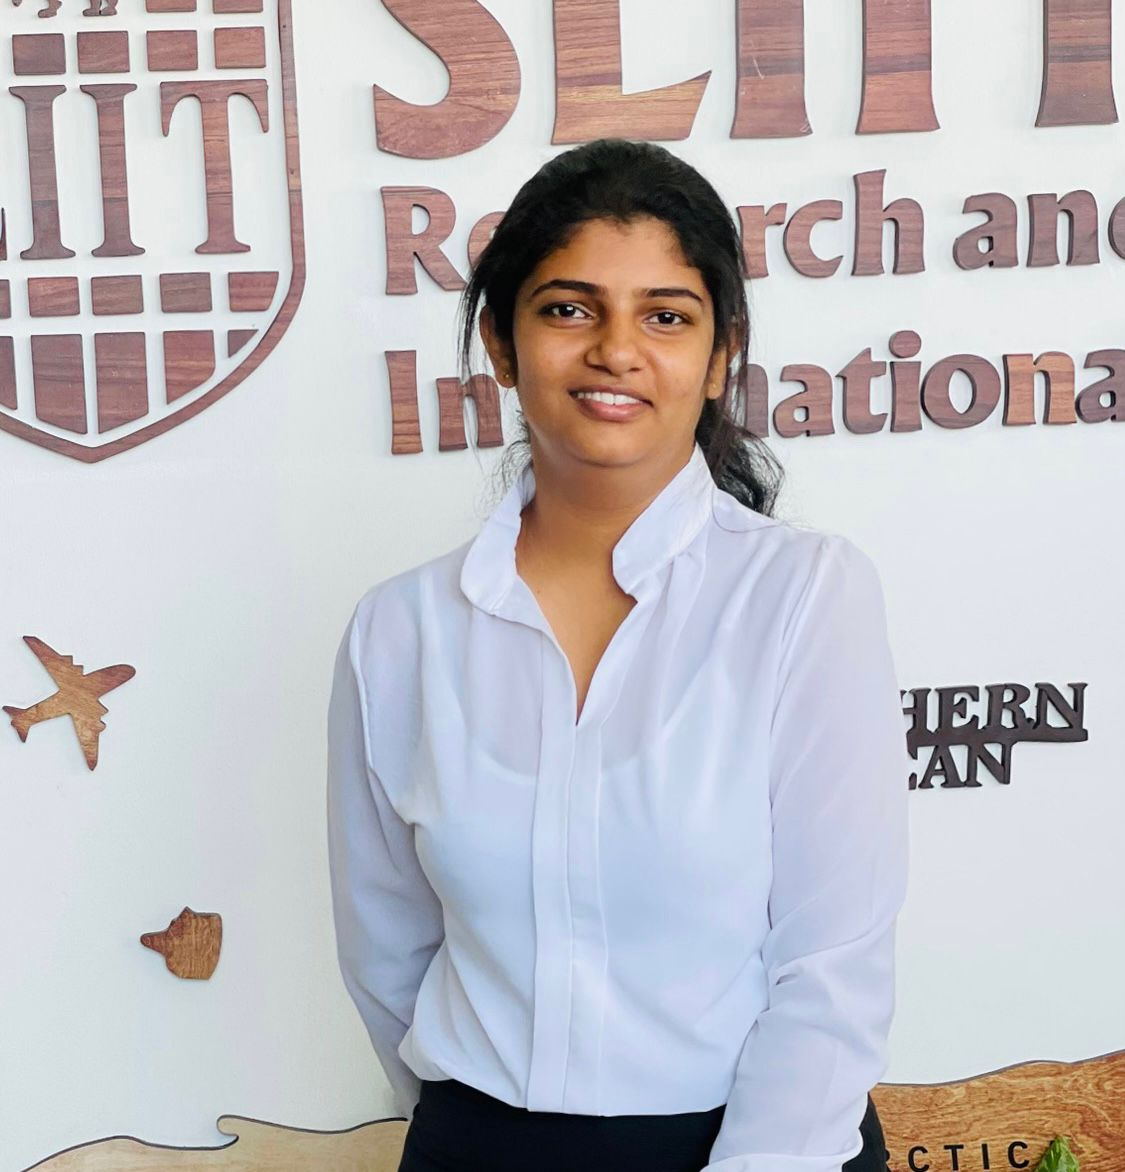
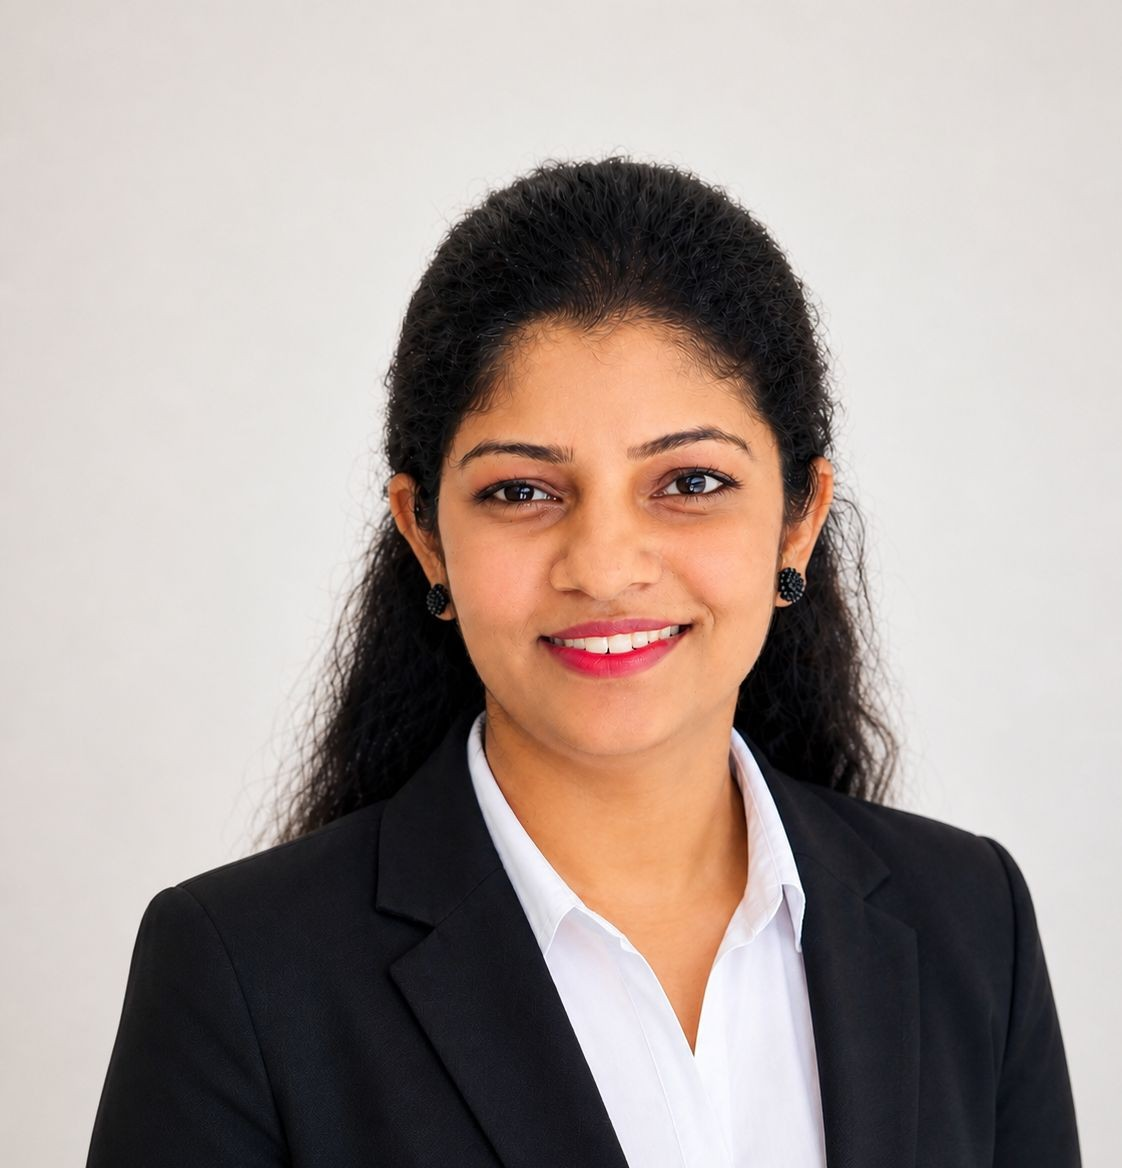
update documents and 1 profile

diff --git a/presentations.html b/presentations.html
@@ -423,11 +423,11 @@
           <div class="pres-stat-label">Total Decks</div>
         </div>
         <div class="pres-stat">
-          <div class="pres-stat-number">3</div>
+          <div class="pres-stat-number">4</div>
           <div class="pres-stat-label">Completed</div>
         </div>
         <div class="pres-stat">
-          <div class="pres-stat-number">31.2 MB</div>
+          <div class="pres-stat-number">31.3 MB</div>
           <div class="pres-stat-label">Total Size</div>
         </div>
         <div class="pres-stat">
@@ -462,7 +462,7 @@
           <div class="ptl-date">Mar 2026</div>
         </div>
         <div class="ptl-step">
-          <div class="ptl-dot upcoming">4</div>
+          <div class="ptl-dot done">✓</div>
           <div class="ptl-label">Final Defense</div>
           <div class="ptl-date">May 2026</div>
         </div>
@@ -501,7 +501,7 @@
             <div class="pres-meta">
               <span class="pres-meta-chip">📅 September 2025</span>
               <span class="pres-meta-chip">👥 Group</span>
-              <span class="pres-meta-chip">💾 4.5 MB</span>
+              <span class="pres-meta-chip">💾 10.3 MB</span>
               <span class="pres-meta-chip">📊 PPTX</span>
             </div>
             <a href="assets/presentations/proposal-presentation.pptx" class="pres-download-btn" download>
@@ -525,10 +525,10 @@
             <div class="pres-meta">
               <span class="pres-meta-chip">📅 December 2025</span>
               <span class="pres-meta-chip">👥 Group</span>
-              <span class="pres-meta-chip">💾 6.2 MB</span>
+              <span class="pres-meta-chip">💾 7.6 MB</span>
               <span class="pres-meta-chip">📊 PPTX</span>
             </div>
-            <a href="assets/presentations/pp1.pptx" class="pres-download-btn" download>
+            <a href="assets/presentations/PP1_presentation.pptx" class="pres-download-btn" download>
               📥 Download Slides
             </a>
           </div>
@@ -549,10 +549,10 @@
             <div class="pres-meta">
               <span class="pres-meta-chip">📅 March 2026</span>
               <span class="pres-meta-chip">👥 Group</span>
-              <span class="pres-meta-chip">💾 8.1 MB</span>
+              <span class="pres-meta-chip">💾 4.6 MB</span>
               <span class="pres-meta-chip">📊 PPTX</span>
             </div>
-            <a href="assets/presentations/pp2.pptx" class="pres-download-btn" download>
+            <a href="assets/presentations/PP2_presentation.pptx" class="pres-download-btn" download>
               📥 Download Slides
             </a>
           </div>
@@ -564,7 +564,7 @@
             <div class="pres-thumb-overlay" style="background: linear-gradient(135deg, rgba(92,53,168,0.3), rgba(0,151,167,0.2));"></div>
             <div class="pres-thumb-icon">🎯</div>
             <span class="pres-thumb-date">May 2026</span>
-            <span class="pres-thumb-status status-prep">🔄 In Preparation</span>
+            <span class="pres-thumb-status status-done">✓ Completed</span>
           </div>
           <div class="pres-body">
             <div class="pres-milestone-tag">🏆 Milestone 4 — Final Defense</div>
@@ -573,12 +573,12 @@
             <div class="pres-meta">
               <span class="pres-meta-chip">📅 May 2026</span>
               <span class="pres-meta-chip">👥 Group</span>
-              <span class="pres-meta-chip">💾 12.4 MB</span>
+              <span class="pres-meta-chip">💾 8.9 MB</span>
               <span class="pres-meta-chip">📊 PPTX</span>
             </div>
-            <span class="pres-download-btn disabled">
-              🔒 Coming Soon
-            </span>
+            <a href="assets/presentations/final-presentation.pptx" class="pres-download-btn" download>
+              📥 Download Slides
+            </a>
           </div>
         </div>
 
@@ -644,8 +644,8 @@
   <script>
     const slideFiles = [
       { name: 'Proposal-Presentation.pptx',  url: 'assets/presentations/proposal-presentation.pptx' },
-      { name: 'Progress-Presentation-1.pptx', url: 'assets/presentations/pp1.pptx' },
-      { name: 'Progress-Presentation-2.pptx', url: 'assets/presentations/pp2.pptx' },
+      { name: 'Progress-Presentation-1.pptx', url: 'assets/presentations/PP1_presentation.pptx' },
+      { name: 'Progress-Presentation-2.pptx', url: 'assets/presentations/PP2_presentation.pptx' },
       { name: 'Final-Presentation.pptx',      url: 'assets/presentations/final-presentation.pptx' }
     ];
 

diff --git a/documents.html b/documents.html
@@ -422,11 +422,11 @@
           <div class="docs-stat-label">Total Documents</div>
         </div>
         <div class="docs-stat">
-          <div class="docs-stat-number">3</div>
+          <div class="docs-stat-number">4</div>
           <div class="docs-stat-label">Completed</div>
         </div>
         <div class="docs-stat">
-          <div class="docs-stat-number">12.5 MB</div>
+          <div class="docs-stat-number">13.9 MB</div>
           <div class="docs-stat-label">Total Size</div>
         </div>
         <div class="docs-stat">
@@ -508,7 +508,7 @@
             <div class="docs-meta">
               <span class="docs-meta-chip">📅 September 2025</span>
               <span class="docs-meta-chip">👥 Group</span>
-              <span class="docs-meta-chip">💾 1.2 MB</span>
+              <span class="docs-meta-chip">💾 11.6 MB</span>
               <span class="docs-meta-chip">📑 PDF</span>
             </div>
             <a href="assets/documents/topic-assessment.pdf" class="docs-download-btn" download>
@@ -531,8 +531,8 @@
             <p class="docs-card-desc">Comprehensive project proposal outlining research objectives, proposed deep learning methodology, YOLOv8 architecture selection, expected outcomes, and the project timeline for each individual component.</p>
             <div class="docs-meta">
               <span class="docs-meta-chip">📅 September 2025</span>
-              <span class="docs-meta-chip">👤 Individual</span>
-              <span class="docs-meta-chip">💾 2.4 MB</span>
+              <span class="docs-meta-chip">👥 Group</span>
+              <span class="docs-meta-chip">💾 436 KB</span>
               <span class="docs-meta-chip">📑 PDF</span>
             </div>
             <a href="assets/documents/project-proposal.pdf" class="docs-download-btn" download>
@@ -556,7 +556,7 @@
             <div class="docs-meta">
               <span class="docs-meta-chip">📅 March 2026</span>
               <span class="docs-meta-chip">👥 Group</span>
-              <span class="docs-meta-chip">💾 3.1 MB</span>
+              <span class="docs-meta-chip">💾 718 KB</span>
               <span class="docs-meta-chip">📑 PDF</span>
             </div>
             <a href="assets/documents/research-paper.pdf" class="docs-download-btn" download>
@@ -579,8 +579,8 @@
             <p class="docs-card-desc">Complete final thesis report including end-to-end system documentation, clinical validation results, performance evaluation, deployment architecture, and future research directions.</p>
             <div class="docs-meta">
               <span class="docs-meta-chip">📅 May 2026</span>
-              <span class="docs-meta-chip">👤 Individual</span>
-              <span class="docs-meta-chip">💾 5.8 MB</span>
+              <span class="docs-meta-chip">👥 Group</span>
+              <span class="docs-meta-chip">💾 1.1 MB</span>
               <span class="docs-meta-chip">📑 PDF</span>
             </div>
             <a href="assets/documents/final-report.pdf" class="docs-download-btn" download>